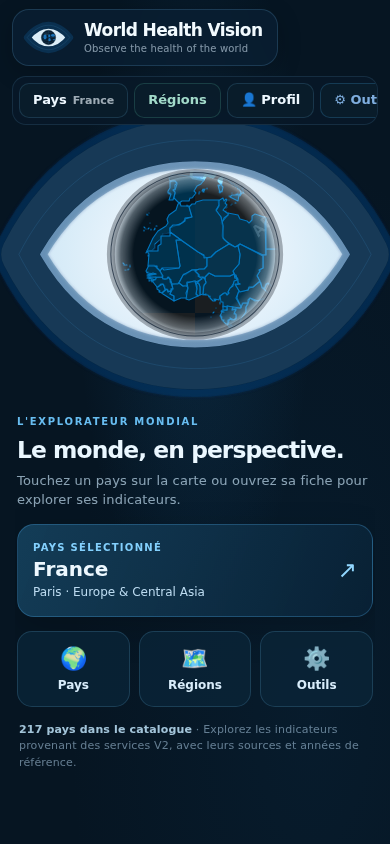
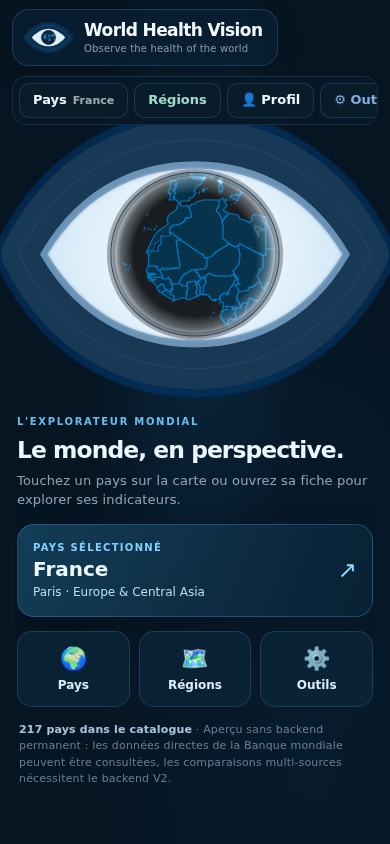
Deploy validated full V2 frontend and responsive tools from e7866f8cfedb749bd5a46d259fd1c76ba4e0ba69

Changed region(s): [[0.0615, 0.8626, 0.9231, 0.9242]]

diff --git a/assets/index-CRI_V8Ur.js b/assets/index-CRI_V8Ur.js
@@ -1,0 +1,10 @@
+const __vite__mapDeps=(i,m=__vite__mapDeps,d=(m.f||(m.f=["./CountryDrawer-Dbj_Et85.js","./rolldown-runtime-Dw2cE7zH.js","./vendor-pdf-DLM9uRPK.js","./vendor-charts-eC2IhdzZ.js","./whvApi-RmEMZZVs.js","./vendor-react-D7QajTSb.js","./useFxRates-BSGJVMSf.js","./LanguageContext-DNbnXkwp.js","./useFxHistory-BPr4WDQd.js","./labels-BKGCAJkd.js","./country-C3oXwEro.js","./country-BXcDFFed.css","./CountryDrawer-CKrShBji.css","./RegionDrawer-DJlBoqLW.js","./SourceMethodologyModal-bjG5LKxv.js","./WatchlistPanel-BLomRmdy.js","./TravelPanel-DdaByGMf.js","./TravelPanel-CwXWDy_4.css","./UserProfilePanel-CWF68jFO.js","./UserProfileContext-CW1BLdBj.js","./profile-Ds3tlk35.css","./PurchasingPowerPanel-BwtHP6KR.js","./PurchasingPowerPanel-B7nI-VME.css","./DestinationScorePanel-CYz1Z-xe.js","./DestinationScorePanel-CwrH5-rR.css","./RetirementPanel-DIbwOOnB.js","./RetirementPanel-BqzQH8_G.css","./RealEstatePanel-VD4A0kbp.js","./RealEstatePanel-E9vl9hXT.css","./AlertsPanel-B50Arvpz.js","./AlertsPanel-Drpa5OI0.css","./AdvisorPanel-B1pWfI35.js","./AdvisorPanel-CxK8LYkh.css","./CurrencyPanel-B0ynl0Dw.js","./CurrencyPanel-DbB-QFR2.css"])))=>i.map(i=>d[i]);
+import{r as e}from"./rolldown-runtime-Dw2cE7zH.js";import{m as t,p as n}from"./vendor-charts-eC2IhdzZ.js";import{n as r,t as i}from"./vendor-react-D7QajTSb.js";import{n as a,r as o,t as s}from"./vendor-leaflet-CYQjbrX7.js";import{n as c,r as l,t as u}from"./LanguageContext-DNbnXkwp.js";import{i as d,r as f}from"./UserProfileContext-CW1BLdBj.js";import{n as p}from"./whvApi-RmEMZZVs.js";import{t as m}from"./labels-BKGCAJkd.js";import{r as h}from"./vendor-pdf-DLM9uRPK.js";(function(){let e=document.createElement(`link`).relList;if(e&&e.supports&&e.supports(`modulepreload`))return;for(let e of document.querySelectorAll(`link[rel="modulepreload"]`))n(e);new MutationObserver(e=>{for(let t of e)if(t.type===`childList`)for(let e of t.addedNodes)e.tagName===`LINK`&&e.rel===`modulepreload`&&n(e)}).observe(document,{childList:!0,subtree:!0});function t(e){let t={};return e.integrity&&(t.integrity=e.integrity),e.referrerPolicy&&(t.referrerPolicy=e.referrerPolicy),e.crossOrigin===`use-credentials`?t.credentials=`include`:e.crossOrigin===`anonymous`?t.credentials=`omit`:t.credentials=`same-origin`,t}function n(e){if(e.ep)return;e.ep=!0;let n=t(e);fetch(e.href,n)}})();var g=e(t(),1),_=n(),v=e(r(),1),y=i();function ee({children:e,headerActions:t}){return(0,y.jsxs)(`div`,{className:`whv-page`,children:[(0,y.jsxs)(`header`,{className:`whv-header`,children:[(0,y.jsxs)(`div`,{className:`whv-brand`,children:[(0,y.jsx)(`div`,{className:`whv-brand-logo`,"aria-hidden":`true`,children:(0,y.jsxs)(`svg`,{viewBox:`0 0 96 60`,className:`whv-brand-logo-svg`,children:[(0,y.jsx)(`defs`,{children:(0,y.jsx)(`clipPath`,{id:`whv-brand-globe-clip`,children:(0,y.jsx)(`circle`,{cx:`48`,cy:`30`,r:`13.5`})})}),(0,y.jsx)(`path`,{d:`M8 30 C20 14, 36 7, 48 7 C60 7, 76 14, 88 30 C76 46, 60 53, 48 53 C36 53, 20 46, 8 30 Z`,fill:`#dceef8`}),(0,y.jsx)(`circle`,{cx:`48`,cy:`30`,r:`13.5`,fill:`#081c2d`}),(0,y.jsxs)(`g`,{clipPath:`url(#whv-brand-globe-clip)`,opacity:`0.38`,children:[(0,y.jsx)(`ellipse`,{cx:`48`,cy:`30`,rx:`13.5`,ry:`5.5`,fill:`none`,stroke:`#4db8ff`,strokeWidth:`0.5`}),(0,y.jsx)(`ellipse`,{cx:`48`,cy:`30`,rx:`13.5`,ry:`10`,fill:`none`,stroke:`#4db8ff`,strokeWidth:`0.5`}),(0,y.jsx)(`line`,{x1:`48`,y1:`16.5`,x2:`48`,y2:`43.5`,stroke:`#4db8ff`,strokeWidth:`0.5`}),(0,y.jsx)(`line`,{x1:`34.5`,y1:`30`,x2:`61.5`,y2:`30`,stroke:`#4db8ff`,strokeWidth:`0.5`})]}),(0,y.jsx)(`ellipse`,{cx:`41.5`,cy:`29`,rx:`3.0`,ry:`4.6`,fill:`#1a72b8`,clipPath:`url(#whv-brand-globe-clip)`}),(0,y.jsx)(`ellipse`,{cx:`49.5`,cy:`27`,rx:`2.0`,ry:`2.6`,fill:`#1a72b8`,clipPath:`url(#whv-brand-globe-clip)`}),(0,y.jsx)(`ellipse`,{cx:`50`,cy:`34`,rx:`2.2`,ry:`3.2`,fill:`#1a72b8`,clipPath:`url(#whv-brand-globe-clip)`}),(0,y.jsx)(`ellipse`,{cx:`56.5`,cy:`26`,rx:`3.8`,ry:`2.8`,fill:`#1a72b8`,clipPath:`url(#whv-brand-globe-clip)`}),(0,y.jsx)(`ellipse`,{cx:`58.5`,cy:`34`,rx:`1.8`,ry:`1.3`,fill:`#1a72b8`,clipPath:`url(#whv-brand-globe-clip)`}),(0,y.jsx)(`ellipse`,{cx:`43.5`,cy:`23.5`,rx:`3.5`,ry:`2.2`,fill:`rgba(200,235,255,0.10)`,clipPath:`url(#whv-brand-globe-clip)`}),(0,y.jsx)(`circle`,{cx:`48`,cy:`30`,r:`13.5`,fill:`none`,stroke:`rgba(6,32,52,0.55)`,strokeWidth:`1.2`}),(0,y.jsx)(`path`,{d:`M8 30 C20 14, 36 7, 48 7 C60 7, 76 14, 88 30 C76 46, 60 53, 48 53 C36 53, 20 46, 8 30 Z`,fill:`none`,stroke:`#0a3050`,strokeWidth:`13`,strokeLinecap:`round`,strokeLinejoin:`round`}),(0,y.jsx)(`path`,{d:`M8 30 C20 14, 36 7, 48 7 C60 7, 76 14, 88 30 C76 46, 60 53, 48 53 C36 53, 20 46, 8 30 Z`,fill:`none`,stroke:`rgba(100, 196, 255, 0.20)`,strokeWidth:`1`,strokeLinecap:`round`})]})}),(0,y.jsxs)(`div`,{className:`whv-brand-text`,children:[(0,y.jsx)(`h1`,{children:`World Health Vision`}),(0,y.jsx)(`p`,{children:`Observe the health of the world`})]})]}),t]}),(0,y.jsx)(`main`,{className:`whv-main`,children:e})]})}var b=[20,0],x=`ISO3166-1-Alpha-3`;function S(e){if(!e||e.length!==2)return`🌍`;let t=127462,n=e.toUpperCase();return String.fromCodePoint(n.charCodeAt(0)-65+t)+String.fromCodePoint(n.charCodeAt(1)-65+t)}function C(e,t,n){let r=S(n?.iso2),i=n?.displayName??e,a=n?.capitalCity,o=n?.currencyCode,s=n?.currencyName,c=n?.currencySymbol,l=n?.subregionName??n?.regionName,u=a?`<div class="wtc-row">🏛 ${a}</div>`:``,d=``;if(o){let e=[o];s&&e.push(`— ${s}`),c&&c!==o&&e.push(`(${c})`),d=`<div class="wtc-row wtc-currency">💱 ${e.join(` `)}</div>`}let f=l?`<div class="wtc-row">🌍 ${l}</div>`:``;return`
+    <div class="whv-tooltip-card">
+      <div class="wtc-header">
+        <span class="wtc-flag">${r}</span>
+        <span class="wtc-name">${i}</span>
+      </div>
+      ${u}${d}${f}
+    </div>
+  `}function w(e,t,n){let r=e?.properties?.[x],i=r===t,a=r?n.has(r):!1;return i?{fillColor:`#1a82d4`,fillOpacity:.88,color:`#5bc5ff`,weight:2.8}:a?{fillColor:`#0e3d56`,fillOpacity:.72,color:`#1470a8`,weight:1.1}:{fillColor:`#0c2233`,fillOpacity:.65,color:`#1b3448`,weight:.7}}function T({activeIso3Set:e,selectedCountryIso3:t,onCountryClick:n,countriesMap:r}){let[i,c]=(0,g.useState)(null),l=(0,g.useRef)(null),u=(0,g.useRef)({selectedCountryIso3:t,activeIso3Set:e,onCountryClick:n,countriesMap:r});u.current={selectedCountryIso3:t,activeIso3Set:e,onCountryClick:n,countriesMap:r},(0,g.useEffect)(()=>{fetch(`/countries.geojson`).then(e=>e.json()).then(e=>c(e)).catch(()=>{})},[]);let d=(0,g.useCallback)(e=>{let t=u.current;return w(e,t.selectedCountryIso3,t.activeIso3Set)},[]);(0,g.useEffect)(()=>{l.current?.setStyle(d)},[t,e,d]);let f=(0,g.useCallback)((e,t)=>{let n=e?.properties?.[x];if(!n)return;let r=e.properties?.name??n;t.on({click:()=>u.current.onCountryClick(n),mouseover:e=>{e.target.setStyle({fillOpacity:.8,weight:2.2,color:`#4ab8ff`});let i=C(r,n,u.current.countriesMap?.get(n));t.getTooltip?.()?.setContent(i)},mouseout:t=>{t.target.setStyle(d(e))}}),t.bindTooltip(C(r,n,u.current.countriesMap?.get(n)),{sticky:!0,className:`whv-tooltip-rich`,direction:`top`,offset:[0,-4]})},[d]);return(0,y.jsxs)(a,{center:b,zoom:2,minZoom:1.5,maxZoom:7,zoomControl:!0,worldCopyJump:!0,style:{width:`100%`,height:`100%`},children:[(0,y.jsx)(s,{url:`https://{s}.basemaps.cartocdn.com/dark_all/{z}/{x}/{y}{r}.png`,attribution:`© OpenStreetMap © CARTO`}),i&&(0,y.jsx)(o,{ref:l,data:i,style:d,onEachFeature:f})]})}var E=(0,g.memo)(T),D=`M30 380 C210 82, 500 -40, 800 -40 C1100 -40, 1390 82, 1570 380 C1390 678, 1100 800, 800 800 C500 800, 210 678, 30 380 Z`,O=`M0.01875 0.5 C0.13125 0.10789,0.3125 -0.05263,0.5 -0.05263 C0.6875 -0.05263,0.86875 0.10789,0.98125 0.5 C0.86875 0.89211,0.6875 1.05263,0.5 1.05263 C0.3125 1.05263,0.13125 0.89211,0.01875 0.5 Z`;function k({drawerOpen:e,countries:t,selectedCountryIso3:n,onCountryClick:r}){let i=(0,g.useMemo)(()=>new Set(t.map(e=>e.iso3)),[t]),a=(0,g.useMemo)(()=>new Map(t.map(e=>[e.iso3,e])),[t]);return(0,y.jsx)(`section`,{className:`eye-stage ${e?`drawer-open`:``}`,children:(0,y.jsxs)(`div`,{className:`eye-scene`,children:[(0,y.jsx)(`svg`,{width:`0`,height:`0`,className:`eye-defs-svg`,"aria-hidden":`true`,children:(0,y.jsx)(`defs`,{children:(0,y.jsx)(`clipPath`,{id:`whv-eye-clip`,clipPathUnits:`objectBoundingBox`,children:(0,y.jsx)(`path`,{d:O})})})}),(0,y.jsx)(`div`,{className:`eye-sclera`,"aria-hidden":`true`}),(0,y.jsx)(`div`,{className:`eye-map-surface`,children:(0,y.jsx)(E,{activeIso3Set:i,selectedCountryIso3:n,onCountryClick:r,countriesMap:a})}),(0,y.jsxs)(`svg`,{className:`eye-svg`,viewBox:`0 0 1600 760`,preserveAspectRatio:`none`,"aria-hidden":`true`,children:[(0,y.jsx)(`defs`,{children:(0,y.jsxs)(`filter`,{id:`whv-eye-glow`,x:`-8%`,y:`-15%`,width:`116%`,height:`130%`,children:[(0,y.jsx)(`feGaussianBlur`,{stdDeviation:`6`,result:`blur`}),(0,y.jsxs)(`feMerge`,{children:[(0,y.jsx)(`feMergeNode`,{in:`blur`}),(0,y.jsx)(`feMergeNode`,{in:`SourceGraphic`})]})]})}),(0,y.jsx)(`path`,{d:D,fill:`none`,stroke:`rgba(10, 60, 120, 0.30)`,strokeWidth:210,strokeLinecap:`round`,strokeLinejoin:`round`,filter:`url(#whv-eye-glow)`}),(0,y.jsx)(`path`,{d:D,fill:`none`,stroke:`#082843`,strokeWidth:155,strokeLinecap:`round`,strokeLinejoin:`round`}),(0,y.jsx)(`path`,{d:D,fill:`none`,stroke:`rgba(160, 220, 255, 0.10)`,strokeWidth:153,strokeLinecap:`round`,strokeLinejoin:`round`}),(0,y.jsx)(`path`,{d:D,fill:`none`,stroke:`rgba(77, 184, 255, 0.20)`,strokeWidth:2.5,strokeLinecap:`round`,strokeLinejoin:`round`}),(0,y.jsx)(`ellipse`,{cx:`800`,cy:`380`,rx:`320`,ry:`334`,fill:`none`,stroke:`rgba(6, 28, 50, 0.65)`,strokeWidth:4}),(0,y.jsx)(`ellipse`,{cx:`800`,cy:`380`,rx:`320`,ry:`334`,fill:`none`,stroke:`rgba(0, 8, 18, 0.30)`,strokeWidth:30})]})]})})}var te=(0,g.memo)(k);function ne(){let[e,t]=(0,g.useState)({countries:[],loading:!0,error:null});return(0,g.useEffect)(()=>{let e=!0;async function n(){try{let n=await p();if(!e)return;t({countries:n,loading:!1,error:null})}catch(n){if(!e)return;t({countries:[],loading:!1,error:n instanceof Error?n.message:`Unable to load countries`})}}return n(),()=>{e=!1}},[]),e}var A=`whv_watchlist_v1`;function j(){try{let e=localStorage.getItem(A);if(!e)return new Set;let t=JSON.parse(e);if(Array.isArray(t))return new Set(t)}catch{}return new Set}function M(e){try{localStorage.setItem(A,JSON.stringify([...e]))}catch{}}function re(){let[e,t]=(0,g.useState)(()=>j());return(0,g.useEffect)(()=>{M(e)},[e]),{watchlist:e,toggle:(0,g.useCallback)(e=>{t(t=>{let n=new Set(t);return n.has(e)?n.delete(e):n.add(e),n})},[]),isWatched:(0,g.useCallback)(t=>e.has(t),[e])}}var ie=(0,g.lazy)(()=>h(()=>import(`./CountryDrawer-Dbj_Et85.js`),__vite__mapDeps([0,1,2,3,4,5,6,7,8,9,10,11,12]),import.meta.url)),ae=(0,g.lazy)(()=>h(()=>import(`./RegionDrawer-DJlBoqLW.js`),__vite__mapDeps([13,1,2,3,4,5,10,11]),import.meta.url)),oe=(0,g.lazy)(()=>h(()=>import(`./SourceMethodologyModal-bjG5LKxv.js`),__vite__mapDeps([14,1,3,4,5,7]),import.meta.url)),se=(0,g.lazy)(()=>h(()=>import(`./WatchlistPanel-BLomRmdy.js`),__vite__mapDeps([15,5,1,3,7]),import.meta.url)),ce=(0,g.lazy)(()=>h(()=>import(`./TravelPanel-DdaByGMf.js`),__vite__mapDeps([16,5,1,3,7,17]),import.meta.url)),le=(0,g.lazy)(()=>h(()=>import(`./UserProfilePanel-CWF68jFO.js`),__vite__mapDeps([18,5,1,3,6,7,19,20]),import.meta.url)),ue=(0,g.lazy)(()=>h(()=>import(`./PurchasingPowerPanel-BwtHP6KR.js`),__vite__mapDeps([21,1,3,4,5,7,19,22]),import.meta.url)),de=(0,g.lazy)(()=>h(()=>import(`./DestinationScorePanel-CYz1Z-xe.js`),__vite__mapDeps([23,1,3,4,5,7,19,24]),import.meta.url)),fe=(0,g.lazy)(()=>h(()=>import(`./RetirementPanel-DIbwOOnB.js`),__vite__mapDeps([25,1,3,4,5,7,19,26]),import.meta.url)),pe=(0,g.lazy)(()=>h(()=>import(`./RealEstatePanel-VD4A0kbp.js`),__vite__mapDeps([27,1,3,4,5,7,19,28]),import.meta.url)),me=(0,g.lazy)(()=>h(()=>import(`./AlertsPanel-B50Arvpz.js`),__vite__mapDeps([29,5,1,3,7,30]),import.meta.url)),he=(0,g.lazy)(()=>h(()=>import(`./AdvisorPanel-B1pWfI35.js`),__vite__mapDeps([31,1,3,5,7,19,32]),import.meta.url)),ge=(0,g.lazy)(()=>h(()=>import(`./CurrencyPanel-B0ynl0Dw.js`),__vite__mapDeps([33,1,3,5,6,7,8,34,20]),import.meta.url));function _e({countries:e,loading:t,selectedIso3:n,watchedIso3s:r,onSelect:i,anchor:a}){let[o,s]=(0,g.useState)(``),c=(0,g.useMemo)(()=>{let t=o.toLowerCase().trim(),n=t?e.filter(e=>e.displayName.toLowerCase().includes(t)||e.iso3.toLowerCase().includes(t)):e;return r.size===0||t?n:[...n].sort((e,t)=>!r.has(e.iso3)-+!r.has(t.iso3))},[e,o,r]);return(0,y.jsxs)(`div`,{className:`country-selector-popover`,style:{position:`fixed`,top:a.top,left:a.left,zIndex:1199},children:[(0,y.jsx)(`input`,{className:`country-selector-search`,type:`text`,placeholder:t?`Chargement...`:`Rechercher un pays...`,value:o,onChange:e=>s(e.target.value),autoFocus:!0}),(0,y.jsxs)(`div`,{className:`country-selector-list`,children:[c.map(e=>(0,y.jsxs)(`button`,{type:`button`,className:`country-selector-item${e.iso3===n?` selected`:``}`,onClick:()=>i(e.iso3),children:[r.has(e.iso3)&&(0,y.jsx)(`span`,{style:{marginRight:5,fontSize:11},children:`★`}),e.displayName]},e.iso3)),!t&&c.length===0&&(0,y.jsx)(`p`,{style:{padding:`8px 14px`,color:`rgba(183,220,245,0.45)`,fontSize:12,margin:0},children:`Aucun pays trouvé`})]})]})}function N(){let e=c(),t=l(),{watchlist:n,toggle:r,isWatched:i}=re(),[a,o]=(0,g.useState)(!1),[s,u]=(0,g.useState)(!1),[f,p]=(0,g.useState)(!1),[h,v]=(0,g.useState)(!1),[b,x]=(0,g.useState)(!1),[S,C]=(0,g.useState)(!1),[w,T]=(0,g.useState)(!1),[E,D]=(0,g.useState)(!1),[O,k]=(0,g.useState)(!1),[A,j]=(0,g.useState)(!1),[M,N]=(0,g.useState)(!1),[P,F]=(0,g.useState)(!1),[I,L]=(0,g.useState)(!1),[R,z]=(0,g.useState)(!1),[B,V]=(0,g.useState)(!1),H=(0,g.useRef)(null),U=(0,g.useRef)(null),[W,ve]=(0,g.useState)({top:80,left:16}),[ye,be]=(0,g.useState)({top:80,left:16}),[G,K]=(0,g.useState)(`FRA`),{profile:q,hasProfile:xe}=d(),{countries:J,loading:Y,error:X}=ne(),Se=!Y&&!!X&&J.length===0,Z=(0,g.useMemo)(()=>J.find(e=>e.iso3===G)??null,[J,G]),Q=(0,g.useCallback)(e=>{u(!1),p(!1),K(e),o(!0)},[]);function Ce(e){K(e),o(!0),u(!1),p(!1)}function $(){o(!1),p(!1),u(e=>!e),C(!1)}function we(){C(e=>!e),p(!1),x(!1),v(!1),T(!1)}function Te(){T(e=>!e),p(!1),x(!1),v(!1),C(!1),D(!1)}function Ee(){D(e=>!e),T(!1),p(!1),x(!1),v(!1),C(!1),k(!1)}function De(){k(e=>!e),D(!1),T(!1),p(!1),x(!1),v(!1),C(!1),j(!1)}function Oe(){j(e=>!e),N(!1),k(!1),D(!1),T(!1),p(!1),x(!1),v(!1),C(!1),F(!1),L(!1),z(!1)}function ke(){N(e=>!e),j(!1),k(!1),D(!1),T(!1),p(!1),x(!1),v(!1),C(!1),F(!1)}function Ae(){F(e=>!e),N(!1),j(!1),k(!1),D(!1),T(!1),p(!1),x(!1),v(!1),C(!1),L(!1)}function je(){L(e=>!e),z(!1),F(!1),N(!1),j(!1),k(!1),D(!1),T(!1),p(!1),x(!1),v(!1),C(!1)}function Me(){z(e=>!e),L(!1),F(!1),N(!1),j(!1),k(!1),D(!1),T(!1),p(!1),x(!1),v(!1),C(!1)}let Ne=E||O||A||M||S||I||P||b||R;return(0,y.jsxs)(ee,{headerActions:(0,y.jsxs)(`nav`,{className:`whv-nav`,children:[(f||B)&&(0,y.jsx)(`div`,{style:{position:`fixed`,inset:0,zIndex:99},onClick:()=>{p(!1),V(!1)}}),(0,y.jsxs)(`button`,{type:`button`,ref:U,className:`whv-nav-btn${a||f?` active`:``}`,onClick:()=>{let e=U.current?.getBoundingClientRect();e&&be({top:e.bottom+8,left:Math.max(8,e.left)}),p(e=>!e),u(!1),V(!1)},children:[m(e,`pays`),Z&&(0,y.jsx)(`span`,{style:{marginLeft:6,fontSize:11,opacity:.65},children:Z.displayName})]}),(0,y.jsx)(`button`,{type:`button`,className:`whv-nav-btn whv-nav-btn--regions${s?` active`:``}`,onClick:$,children:m(e,`regions`)}),(0,y.jsx)(`button`,{type:`button`,className:`whv-nav-btn whv-nav-btn--profile${w?` active`:``}`,onClick:Te,title:e===`fr`?`Mon profil`:`My profile`,children:xe&&q.displayName?`👤 ${q.displayName}`:`👤 ${e===`fr`?`Profil`:`Profile`}`}),(0,y.jsxs)(`div`,{className:`whv-tools-dropdown`,style:{position:`relative`,zIndex:120},children:[(0,y.jsxs)(`button`,{type:`button`,ref:H,"aria-expanded":B,"aria-controls":`whv-tools-menu`,className:`whv-nav-btn whv-nav-btn--tools${B||Ne?` active`:``}`,onClick:()=>{let e=H.current?.getBoundingClientRect();e&&ve({top:e.bottom+8,left:Math.max(8,Math.min(e.left,window.innerWidth-270))}),V(e=>!e),p(!1)},title:e===`fr`?`Outils d'analyse`:`Analysis tools`,children:[`⚙ `,e===`fr`?`Outils`:`Tools`,Ne&&(0,y.jsx)(`span`,{style:{marginLeft:5,fontSize:10,fontWeight:700,color:`rgba(99,155,255,0.9)`},children:`●`})]}),B&&(0,_.createPortal)((0,y.jsxs)(`div`,{className:`whv-tools-menu`,id:`whv-tools-menu`,role:`menu`,style:{position:`fixed`,top:W.top,left:W.left,zIndex:1200},children:[(0,y.jsxs)(`button`,{type:`button`,className:`whv-tools-item whv-nav-btn--pp${E?` active`:``}`,onClick:()=>{Ee(),V(!1)},children:[`💶 `,e===`fr`?`Pouvoir d'achat`:`Purchasing power`]}),(0,y.jsxs)(`button`,{type:`button`,className:`whv-tools-item whv-nav-btn--score${O?` active`:``}`,onClick:()=>{De(),V(!1)},children:[`🎯 `,e===`fr`?`Score destination`:`Destination score`]}),(0,y.jsxs)(`button`,{type:`button`,className:`whv-tools-item${A?` active`:``}`,onClick:()=>{Oe(),V(!1)},children:[`🌿 `,e===`fr`?`Expat & Retraite`:`Expat & Retirement`]}),(0,y.jsxs)(`button`,{type:`button`,className:`whv-tools-item whv-nav-btn--realestate${M?` active`:``}`,onClick:()=>{ke(),V(!1)},children:[`🏘 `,e===`fr`?`Immobilier`:`Real Estate`]}),(0,y.jsxs)(`button`,{type:`button`,className:`whv-tools-item whv-nav-btn--currency${R?` active`:``}`,onClick:()=>{Me(),V(!1)},children:[`💱 `,e===`fr`?`Devises`:`Currencies`]}),(0,y.jsxs)(`button`,{type:`button`,className:`whv-tools-item${I?` active`:``}`,onClick:()=>{je(),V(!1)},children:[`◉ `,e===`fr`?`Conseiller économique`:`Economic advisor`]}),(0,y.jsxs)(`button`,{type:`button`,className:`whv-tools-item whv-nav-btn--watchlist${b?` active`:``}`,onClick:()=>{x(e=>!e),p(!1),v(!1),u(!1),C(!1),V(!1)},children:[`★ `,e===`fr`?`Favoris`:`Watchlist`,n.size>0&&(0,y.jsx)(`span`,{style:{marginLeft:5,fontSize:10,background:`rgba(247,201,72,0.22)`,borderRadius:`50%`,width:16,height:16,display:`inline-flex`,alignItems:`center`,justifyContent:`center`,fontWeight:700},children:n.size})]}),(0,y.jsx)(`div`,{className:`whv-tools-divider`}),(0,y.jsx)(`span`,{style:{padding:`2px 12px 5px`,fontSize:10,fontWeight:700,letterSpacing:`0.05em`,color:`rgba(183,220,245,0.4)`,textTransform:`uppercase`},children:e===`fr`?`Bientôt disponible`:`Coming soon`}),(0,y.jsxs)(`button`,{type:`button`,className:`whv-tools-item whv-nav-btn--travel${S?` active`:``}`,onClick:()=>{we(),V(!1)},children:[`✈ `,e===`fr`?`Voyage`:`Travel`]}),(0,y.jsxs)(`button`,{type:`button`,className:`whv-tools-item whv-nav-btn--alerts${P?` active`:``}`,onClick:()=>{Ae(),V(!1)},children:[`🔔 `,e===`fr`?`Alertes`:`Alerts`]})]}),document.body)]}),(0,y.jsx)(`button`,{type:`button`,className:`whv-nav-btn whv-nav-btn--sources${h?` active`:``}`,onClick:()=>{v(e=>!e),p(!1),x(!1),u(!1)},title:e===`fr`?`Sources & Méthodologie`:`Sources & Methodology`,children:m(e,`sources`)}),(0,y.jsx)(`button`,{type:`button`,className:`whv-nav-btn whv-nav-btn--lang`,onClick:t,title:e===`fr`?`Switch to English`:`Passer en français`,children:m(e,`langue`)}),(0,y.jsxs)(`span`,{className:`whv-service-status whv-service-status--offline`,title:`Aperçu statique du frontend V2 : le backend permanent n'est pas connecté`,children:[(0,y.jsx)(`span`,{className:`whv-service-status-dot`}),`Aperçu`]}),f&&(0,_.createPortal)((0,y.jsx)(_e,{countries:J,loading:Y,selectedIso3:G,watchedIso3s:n,onSelect:Ce,anchor:ye}),document.body)]}),children:[(0,y.jsx)(te,{drawerOpen:a||s,countries:J,selectedCountryIso3:G,onCountryClick:Q}),(0,y.jsxs)(`aside`,{className:`whv-mobile-overview`,"aria-label":e===`fr`?`Explorer les pays`:`Explore countries`,children:[(0,y.jsxs)(`div`,{children:[(0,y.jsx)(`span`,{className:`whv-mobile-eyebrow`,children:e===`fr`?`L'EXPLORATEUR MONDIAL`:`WORLD EXPLORER`}),(0,y.jsx)(`h2`,{children:e===`fr`?`Le monde, en perspective.`:`The world, in perspective.`}),(0,y.jsx)(`p`,{className:`whv-mobile-overview-description`,children:e===`fr`?`Touchez un pays sur la carte ou ouvrez sa fiche pour explorer ses indicateurs.`:`Select a country on the map or open its profile to explore its indicators.`})]}),(0,y.jsxs)(`button`,{className:`whv-mobile-featured`,type:`button`,onClick:()=>Q(G),children:[(0,y.jsxs)(`span`,{className:`whv-mobile-featured-text`,children:[(0,y.jsx)(`span`,{className:`whv-mobile-featured-label`,children:e===`fr`?`PAYS SÉLECTIONNÉ`:`SELECTED COUNTRY`}),(0,y.jsx)(`span`,{className:`whv-mobile-featured-name`,children:Z?.displayName??(e===`fr`?`Choisir un pays`:`Choose a country`)}),(0,y.jsx)(`span`,{className:`whv-mobile-featured-subtitle`,children:[Z?.capitalCity,Z?.regionName].filter(Boolean).join(` · `)||(e===`fr`?`Explorer la fiche du pays`:`Explore the country profile`)})]}),(0,y.jsx)(`span`,{className:`whv-mobile-featured-arrow`,"aria-hidden":`true`,children:`↗`})]}),(0,y.jsxs)(`div`,{className:`whv-mobile-shortcuts`,children:[(0,y.jsxs)(`button`,{type:`button`,className:`whv-mobile-shortcut`,onClick:()=>{p(!0),V(!1)},children:[(0,y.jsx)(`span`,{className:`whv-mobile-shortcut-symbol`,"aria-hidden":`true`,children:`🌍`}),(0,y.jsx)(`span`,{children:e===`fr`?`Pays`:`Countries`})]}),(0,y.jsxs)(`button`,{type:`button`,className:`whv-mobile-shortcut`,onClick:$,children:[(0,y.jsx)(`span`,{className:`whv-mobile-shortcut-symbol`,"aria-hidden":`true`,children:`🗺`}),(0,y.jsx)(`span`,{children:e===`fr`?`Régions`:`Regions`})]}),(0,y.jsxs)(`button`,{type:`button`,className:`whv-mobile-shortcut`,onClick:()=>{V(!0),p(!1)},children:[(0,y.jsx)(`span`,{className:`whv-mobile-shortcut-symbol`,"aria-hidden":`true`,children:`⚙`}),(0,y.jsx)(`span`,{children:e===`fr`?`Outils`:`Tools`})]})]}),(0,y.jsxs)(`p`,{className:`whv-mobile-note`,children:[(0,y.jsxs)(`strong`,{children:[J.length,` `,e===`fr`?`pays dans le catalogue`:`countries in the catalog`]}),` · `,e===`fr`?`Aperçu sans backend permanent : les données directes de la Banque mondiale peuvent être consultées, les comparaisons multi-sources nécessitent le backend V2.`:`Preview without a permanent backend: direct World Bank data may be available, but multi-source comparisons require the V2 backend.`]})]}),(0,y.jsxs)(g.Suspense,{fallback:null,children:[a&&(0,y.jsx)(ie,{open:a,onClose:()=>o(!1),selectedCountryIso3:G,onCountryChange:e=>{K(e)},countries:J,countriesLoading:Y,countriesError:X,watched:i(G),onToggleWatch:()=>r(G)}),s&&(0,y.jsx)(ae,{open:s,onClose:()=>u(!1),countries:J,onOpenCountry:Q}),h&&(0,y.jsx)(oe,{onClose:()=>v(!1)}),Se&&(0,y.jsxs)(`div`,{className:`whv-offline-banner`,children:[(0,y.jsx)(`span`,{className:`whv-offline-banner-icon`,children:`⚠`}),(0,y.jsxs)(`div`,{children:[(0,y.jsx)(`strong`,{children:`Services backend hors ligne`}),(0,y.jsx)(`span`,{children:`Démarrez gateway (8080), catalog (8082) et analytics (8000) pour accéder aux données. La carte reste navigable.`})]})]}),w&&(0,y.jsx)(le,{countries:J,onClose:()=>T(!1)}),E&&(0,y.jsx)(ue,{countries:J,onClose:()=>D(!1)}),O&&(0,y.jsx)(de,{countries:J,onOpenCountry:e=>{K(e),o(!0),k(!1)},onClose:()=>k(!1)}),A&&(0,y.jsx)(fe,{countries:J,onOpenCountry:e=>{K(e),o(!0),j(!1)},onClose:()=>j(!1)}),M&&(0,y.jsx)(pe,{countries:J,onOpenCountry:e=>{K(e),o(!0),N(!1)},onClose:()=>N(!1)}),P&&(0,y.jsx)(me,{onClose:()=>F(!1)}),I&&(0,y.jsx)(he,{countries:J,selectedIso3:G,onClose:()=>L(!1)}),S&&(0,y.jsx)(ce,{onClose:()=>C(!1)}),R&&(0,y.jsx)(ge,{onClose:()=>z(!1)}),b&&(0,y.jsx)(se,{watchedIso3s:n,countries:J,onOpenCountry:e=>{K(e),o(!0),u(!1)},onRemove:e=>r(e),onClose:()=>x(!1)})]})]})}function P(){return(0,y.jsx)(u,{children:(0,y.jsx)(f,{children:(0,y.jsx)(N,{})})})}v.createRoot(document.getElementById(`root`)).render((0,y.jsx)(g.StrictMode,{children:(0,y.jsx)(P,{})}));

diff --git a/assets/SourceMethodologyModal-bjG5LKxv.js b/assets/SourceMethodologyModal-bjG5LKxv.js
@@ -1,0 +1,1 @@
+import{r as e}from"./rolldown-runtime-Dw2cE7zH.js";import{m as t}from"./vendor-charts-eC2IhdzZ.js";import{t as n}from"./vendor-react-D7QajTSb.js";import{n as r}from"./LanguageContext-DNbnXkwp.js";import{f as i}from"./whvApi-RmEMZZVs.js";var a=e(t(),1),o=n(),s={fr:{title:`Sources & Méthodologie`,subtitle:`Référentiel des sources de données utilisées par World Health Vision. La plateforme ne masque pas les biais — elle les expose.`,close:`Fermer`,organisation:`Organisation`,porteeGeo:`Portée géographique`,cadence:`Mise à jour`,acces:`Accès`,licence:`Licence`,biais:`Biais à connaître`,qualite:`Notes qualité`,documentation:`Documentation`,siteOfficiel:`Site officiel`,loading:`Chargement des sources...`,error:`Impossible de charger les sources. Vérifier que le backend est actif.`},en:{title:`Sources & Methodology`,subtitle:`Reference catalogue of data sources used by World Health Vision. The platform doesn't hide biases — it exposes them.`,close:`Close`,organisation:`Organization`,porteeGeo:`Geographic coverage`,cadence:`Update cadence`,acces:`Access`,licence:`License`,biais:`Bias notes`,qualite:`Quality notes`,documentation:`Documentation`,siteOfficiel:`Official website`,loading:`Loading sources...`,error:`Failed to load sources. Check that the backend is running.`}},c={OFFICIAL:{bg:`rgba(37,99,235,0.15)`,color:`#60a5fa`,fr:`Officiel`,en:`Official`},RESEARCH:{bg:`rgba(124,58,237,0.15)`,color:`#a78bfa`,fr:`Recherche`,en:`Research`},COMMUNITY:{bg:`rgba(5,150,105,0.15)`,color:`#34d399`,fr:`Communautaire`,en:`Community`},MARKET:{bg:`rgba(217,119,6,0.15)`,color:`#fbbf24`,fr:`Terrain / Marché`,en:`Market data`}},l=[`OFFICIAL`,`RESEARCH`,`COMMUNITY`,`MARKET`],u={GLOBAL:`Mondial`,MULTI_REGION:`Multi-régional`,EUROPE:`Europe`,REGIONAL:`Régional`,LOCAL:`Local`},d={GLOBAL:`Global`,MULTI_REGION:`Multi-regional`,EUROPE:`Europe`,REGIONAL:`Regional`,LOCAL:`Local`},f={PERIODIC:`Périodique`,ANNUAL:`Annuel`,QUARTERLY:`Trimestriel`,CONTINUOUS:`Continu`,AD_HOC:`Ponctuel`},p={PERIODIC:`Periodic`,ANNUAL:`Annual`,QUARTERLY:`Quarterly`,CONTINUOUS:`Continuous`,AD_HOC:`Ad-hoc`},m={OPEN:`Ouvert`,REGISTRATION:`Inscription / Clé API`,API_KEY:`Clé API`,LIMITED:`Accès limité`,COMMERCIAL:`Commercial`},h={OPEN:`Open`,REGISTRATION:`Registration / API key`,API_KEY:`API key`,LIMITED:`Limited access`,COMMERCIAL:`Commercial`};function g(e,t,n,r){return n?(r===`fr`?e[n]:t[n])??n:`—`}function _({onClose:e}){let t=r(),n=s[t],[_,v]=(0,a.useState)(null),[y,b]=(0,a.useState)(null),x=(0,a.useRef)(null);(0,a.useEffect)(()=>{i().then(e=>v(e)).catch(()=>b(n.error))},[]),(0,a.useEffect)(()=>{let t=t=>{t.key===`Escape`&&e()};return window.addEventListener(`keydown`,t),()=>window.removeEventListener(`keydown`,t)},[e]);let S=_?[..._].sort((e,t)=>{let n=l.indexOf(e.type),r=l.indexOf(t.type);return(n<0?l.length:n)-(r<0?l.length:r)}):null;return(0,o.jsx)(`div`,{className:`whv-modal-overlay`,ref:x,onClick:t=>{t.target===x.current&&e()},children:(0,o.jsxs)(`div`,{className:`whv-modal`,role:`dialog`,"aria-modal":`true`,"aria-label":n.title,children:[(0,o.jsxs)(`div`,{className:`whv-modal-header`,children:[(0,o.jsxs)(`div`,{children:[(0,o.jsx)(`h2`,{className:`whv-modal-title`,children:n.title}),(0,o.jsx)(`p`,{className:`whv-modal-subtitle`,children:n.subtitle})]}),(0,o.jsxs)(`button`,{type:`button`,className:`whv-modal-close`,onClick:e,children:[n.close,` ✕`]})]}),(0,o.jsxs)(`div`,{className:`whv-modal-body`,children:[y&&(0,o.jsx)(`p`,{className:`whv-modal-message whv-modal-message--error`,children:y}),!y&&!S&&(0,o.jsx)(`p`,{className:`whv-modal-message`,children:n.loading}),S&&(0,o.jsxs)(o.Fragment,{children:[(0,o.jsxs)(`p`,{style:{margin:`0 0 12px`,fontSize:13,color:`rgba(190,226,245,.77)`},children:[S.length,` `,t===`fr`?`sources répertoriées dans le catalogue V2`:`sources registered in the V2 catalog`,`.`,(0,o.jsxs)(`span`,{children:[` `,t===`fr`?`Mode aperçu : cette liste provient des migrations SQL de la V2. Une source répertoriée n'implique pas que ses données soient déjà ingérées ou actualisées.`:`Preview mode: entries are generated from V2 SQL migrations. A registered source does not mean its observations have been ingested or refreshed.`]})]}),(0,o.jsx)(`div`,{className:`whv-source-grid`,children:S.map(e=>{let r=c[e.type]??{bg:`rgba(255,255,255,0.06)`,color:`#999`,fr:e.type,en:e.type};return(0,o.jsxs)(`div`,{className:`whv-source-card`,children:[(0,o.jsxs)(`div`,{className:`whv-source-card-header`,children:[(0,o.jsx)(`span`,{className:`whv-source-card-name`,children:e.displayName}),(0,o.jsx)(`span`,{className:`whv-source-type-badge`,style:{background:r.bg,color:r.color},children:t===`fr`?r.fr:r.en})]}),(0,o.jsxs)(`p`,{className:`whv-source-meta`,children:[n.organisation,` :`,` `,(0,o.jsx)(`strong`,{style:{color:`rgba(183,220,245,0.82)`},children:e.organizationName})]}),(0,o.jsxs)(`div`,{className:`whv-source-pills`,children:[(0,o.jsx)(`span`,{className:`whv-pill whv-pill--scope`,children:g(u,d,e.geographicScope,t)}),e.updateCadence&&(0,o.jsx)(`span`,{className:`whv-pill whv-pill--cadence`,children:g(f,p,e.updateCadence,t)}),(0,o.jsx)(`span`,{className:`whv-pill whv-pill--access`,children:g(m,h,e.accessModel,t)})]}),e.biasNotes&&(0,o.jsxs)(`div`,{className:`whv-source-box whv-source-box--bias`,children:[(0,o.jsx)(`span`,{className:`whv-source-box-label`,children:n.biais}),(0,o.jsx)(`span`,{children:e.biasNotes})]}),e.qualityNotes&&(0,o.jsxs)(`div`,{className:`whv-source-box whv-source-box--quality`,children:[(0,o.jsx)(`span`,{className:`whv-source-box-label`,children:n.qualite}),(0,o.jsx)(`span`,{children:e.qualityNotes})]}),e.licenseSummary&&(0,o.jsxs)(`div`,{className:`whv-source-box whv-source-box--license`,children:[(0,o.jsx)(`span`,{className:`whv-source-box-label`,children:n.licence}),(0,o.jsx)(`span`,{children:e.licenseSummary})]}),(0,o.jsxs)(`div`,{className:`whv-source-links`,children:[e.homepageUrl&&(0,o.jsxs)(`a`,{href:e.homepageUrl,target:`_blank`,rel:`noopener noreferrer`,className:`whv-source-link`,children:[n.siteOfficiel,` ↗`]}),e.documentationUrl&&(0,o.jsxs)(`a`,{href:e.documentationUrl,target:`_blank`,rel:`noopener noreferrer`,className:`whv-source-link`,children:[n.documentation,` ↗`]})]})]},e.code)})})]})]})]})})}export{_ as default};

diff --git a/index.html b/index.html
@@ -14,7 +14,7 @@
     <link rel="preconnect" href="https://fonts.googleapis.com" />
     <link rel="preconnect" href="https://fonts.gstatic.com" crossorigin />
     <link href="https://fonts.googleapis.com/css2?family=Inter:wght@400;500;600;700;800;900&display=swap" rel="stylesheet" />
-    <script type="module" crossorigin src="./assets/index-CJQkarHm.js"></script>
+    <script type="module" crossorigin src="./assets/index-CRI_V8Ur.js"></script>
     <link rel="modulepreload" crossorigin href="./assets/rolldown-runtime-Dw2cE7zH.js">
     <link rel="modulepreload" crossorigin href="./assets/vendor-pdf-DLM9uRPK.js">
     <link rel="modulepreload" crossorigin href="./assets/vendor-charts-eC2IhdzZ.js">
